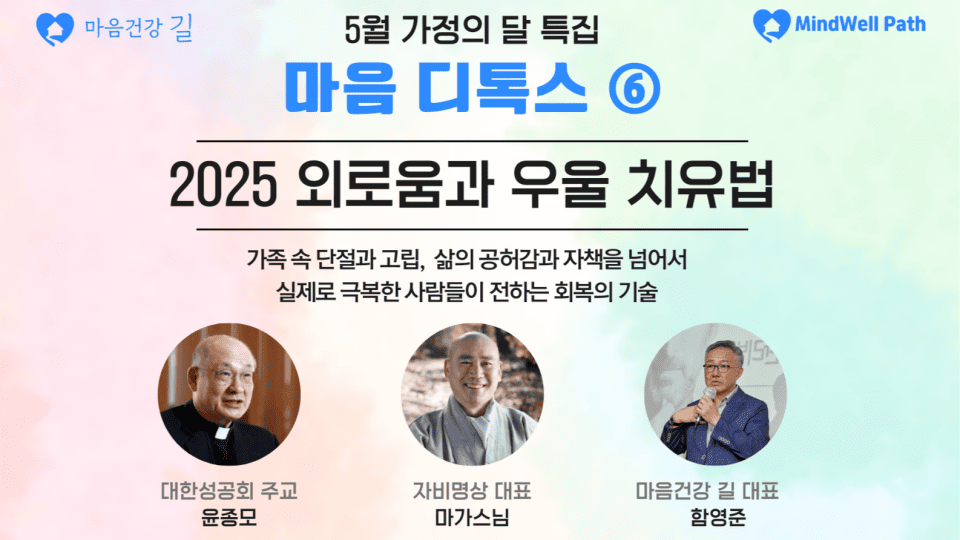
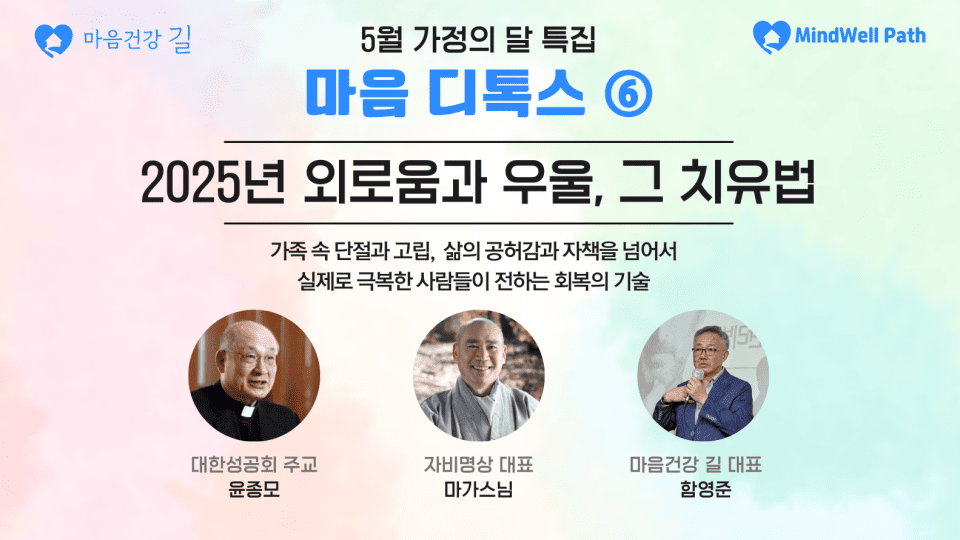
update title poster

diff --git a/conference-v1-dg.html b/conference-v1-dg.html
@@ -30,7 +30,7 @@
     <link rel="icon" href="./img/logo-introduce.png" sizes="192x192"/>
     <link rel="icon" href="./img/logo-introduce.png" type="image/svg+xml"/>
 
-    <title> 가정의 달 특집! 우울증을 부르는 가족 간 외로움과 고독감 극복 컨퍼런스 | 마음건강 길 - 마음디톡스 : 2025 외로움과 우울 치유법</title>
+    <title> 가정의 달 특집! 우울증을 부르는 가족 간 외로움과 고독감 극복 컨퍼런스 | 마음건강 길 - 마음디톡스 : 2025년 외로움과 우울, 그 치유법</title>
 
     <!-- Google Fonts -->
     <link rel="stylesheet" href="css/font.css">
@@ -133,7 +133,7 @@ About Us Section
   <div class="section-header">
     <h3><img src="./img/logo-blue-bold.png" style="max-width:140px;margin-bottom:5px;">이 주최하는<br><br><span style=" font-family: 'GowunBatang-Regular';font-size:20px;color:#3a94f5;"><b>병원 밖 마음 치유공간</b></span><br><span style="font-family: 'HakgyoansimAllimjangTTF-B';color:green;">'마음 디톡스'</span><br><br>
       
-      6번째 컨퍼런스 주제는<br><br>“2025 외로움과 우울 치유법"<br>입니다.<br><br></h3>
+      6번째 컨퍼런스 주제는<br><br>“2025년 외로움과 우울, 그 치유법"<br>입니다.<br><br></h3>
     <!-- <p style="text-align:left" class="textleft">
     예전 방식으로 감량이 안된다는 것은<br>여러분의 체질이 바뀌었다는 걸 의미합니다.<br>감량 방식도 바뀐 체질에 맞게 달라져야 합니다.</p> -->
   </div>

diff --git a/conference-v1-kad.html b/conference-v1-kad.html
@@ -28,7 +28,7 @@
     <link rel="icon" href="./img/logo-introduce.png" sizes="192x192"/>
     <link rel="icon" href="./img/logo-introduce.png" type="image/svg+xml"/>
 
-    <title> 가정의 달 특집! 우울증을 부르는 가족 간 외로움과 고독감 극복 컨퍼런스 | 마음건강 길 - 마음디톡스 : 2025 외로움과 우울 치유법</title>
+    <title> 가정의 달 특집! 우울증을 부르는 가족 간 외로움과 고독감 극복 컨퍼런스 | 마음건강 길 - 마음디톡스 : 2025년 외로움과 우울, 그 치유법</title>
 
     <!-- Google Fonts -->
     <link rel="stylesheet" href="css/font.css">
@@ -129,7 +129,7 @@ About Us Section
   <div class="section-header">
     <h3><img src="./img/logo-blue-bold.png" style="max-width:140px;margin-bottom:5px;">이 주최하는<br><br><span style=" font-family: 'GowunBatang-Regular';font-size:20px;color:#3a94f5;"><b>병원 밖 마음 치유공간</b></span><br><span style="font-family: 'HakgyoansimAllimjangTTF-B';color:green;">'마음 디톡스'</span><br><br>
       
-      6번째 컨퍼런스 주제는<br><br>“2025 외로움과 우울 치유법"<br>입니다.<br><br></h3>
+      6번째 컨퍼런스 주제는<br><br>“2025년 외로움과 우울, 그 치유법"<br>입니다.<br><br></h3>
     <!-- <p style="text-align:left" class="textleft">
     예전 방식으로 감량이 안된다는 것은<br>여러분의 체질이 바뀌었다는 걸 의미합니다.<br>감량 방식도 바뀐 체질에 맞게 달라져야 합니다.</p> -->
   </div>

diff --git a/conference-v1-kakao.html b/conference-v1-kakao.html
@@ -30,7 +30,7 @@
     <link rel="icon" href="./img/logo-introduce.png" sizes="192x192"/>
     <link rel="icon" href="./img/logo-introduce.png" type="image/svg+xml"/>
 
-    <title> 가정의 달 특집! 우울증을 부르는 가족 간 외로움과 고독감 극복 컨퍼런스 | 마음건강 길 - 마음디톡스 : 2025 외로움과 우울 치유법</title>
+    <title> 가정의 달 특집! 우울증을 부르는 가족 간 외로움과 고독감 극복 컨퍼런스 | 마음건강 길 - 마음디톡스 : 2025년 외로움과 우울, 그 치유법</title>
 
     <!-- Google Fonts -->
     <link rel="stylesheet" href="css/font.css">
@@ -131,7 +131,7 @@ About Us Section
   <div class="section-header">
     <h3><img src="./img/logo-blue-bold.png" style="max-width:140px;margin-bottom:5px;">이 주최하는<br><br><span style=" font-family: 'GowunBatang-Regular';font-size:20px;color:#3a94f5;"><b>병원 밖 마음 치유공간</b></span><br><span style="font-family: 'HakgyoansimAllimjangTTF-B';color:green;">'마음 디톡스'</span><br><br>
       
-      6번째 컨퍼런스 주제는<br><br>“2025 외로움과 우울 치유법"<br>입니다.<br><br></h3>
+      6번째 컨퍼런스 주제는<br><br>“2025년 외로움과 우울, 그 치유법"<br>입니다.<br><br></h3>
     <!-- <p style="text-align:left" class="textleft">
     예전 방식으로 감량이 안된다는 것은<br>여러분의 체질이 바뀌었다는 걸 의미합니다.<br>감량 방식도 바뀐 체질에 맞게 달라져야 합니다.</p> -->
   </div>

diff --git a/conference-v1-meta.html b/conference-v1-meta.html
@@ -39,7 +39,7 @@
     <link rel="icon" href="./img/logo-introduce.png" sizes="192x192"/>
     <link rel="icon" href="./img/logo-introduce.png" type="image/svg+xml"/>
 
-    <title> 가정의 달 특집! 우울증을 부르는 가족 간 외로움과 고독감 극복 컨퍼런스 | 마음건강 길 - 마음디톡스 : 2025 외로움과 우울 치유법</title>
+    <title> 가정의 달 특집! 우울증을 부르는 가족 간 외로움과 고독감 극복 컨퍼런스 | 마음건강 길 - 마음디톡스 : 2025년 외로움과 우울, 그 치유법</title>
 
     <!-- Google Fonts -->
     <link rel="stylesheet" href="css/font.css">
@@ -142,7 +142,7 @@ About Us Section
   <div class="section-header">
     <h3><img src="./img/logo-blue-bold.png" style="max-width:140px;margin-bottom:5px;">이 주최하는<br><br><span style=" font-family: 'GowunBatang-Regular';font-size:20px;color:#3a94f5;"><b>병원 밖 마음 치유공간</b></span><br><span style="font-family: 'HakgyoansimAllimjangTTF-B';color:green;">'마음 디톡스'</span><br><br>
       
-      6번째 컨퍼런스 주제는<br><br>“2025 외로움과 우울 치유법"<br>입니다.<br><br></h3>
+      6번째 컨퍼런스 주제는<br><br>“2025년 외로움과 우울, 그 치유법"<br>입니다.<br><br></h3>
     <!-- <p style="text-align:left" class="textleft">
     예전 방식으로 감량이 안된다는 것은<br>여러분의 체질이 바뀌었다는 걸 의미합니다.<br>감량 방식도 바뀐 체질에 맞게 달라져야 합니다.</p> -->
   </div>

diff --git a/conference-v1-popup.html b/conference-v1-popup.html
@@ -30,7 +30,7 @@
     <link rel="icon" href="./img/logo-introduce.png" sizes="192x192"/>
     <link rel="icon" href="./img/logo-introduce.png" type="image/svg+xml"/>
 
-    <title> 가정의 달 특집! 우울증을 부르는 가족 간 외로움과 고독감 극복 컨퍼런스 | 마음건강 길 - 마음디톡스 : 2025 외로움과 우울 치유법</title>
+    <title> 가정의 달 특집! 우울증을 부르는 가족 간 외로움과 고독감 극복 컨퍼런스 | 마음건강 길 - 마음디톡스 : 2025년 외로움과 우울, 그 치유법</title>
 
     <!-- Google Fonts -->
     <link rel="stylesheet" href="css/font.css">
@@ -133,7 +133,7 @@ About Us Section
   <div class="section-header">
     <h3><img src="./img/logo-blue-bold.png" style="max-width:140px;margin-bottom:5px;">이 주최하는<br><br><span style=" font-family: 'GowunBatang-Regular';font-size:20px;color:#3a94f5;"><b>병원 밖 마음 치유공간</b></span><br><span style="font-family: 'HakgyoansimAllimjangTTF-B';color:green;">'마음 디톡스'</span><br><br>
       
-      6번째 컨퍼런스 주제는<br><br>“2025 외로움과 우울 치유법"<br>입니다.<br><br></h3>
+      6번째 컨퍼런스 주제는<br><br>“2025년 외로움과 우울, 그 치유법"<br>입니다.<br><br></h3>
     <!-- <p style="text-align:left" class="textleft">
     예전 방식으로 감량이 안된다는 것은<br>여러분의 체질이 바뀌었다는 걸 의미합니다.<br>감량 방식도 바뀐 체질에 맞게 달라져야 합니다.</p> -->
   </div>

diff --git a/conference-v1-text.html b/conference-v1-text.html
@@ -30,7 +30,7 @@
     <link rel="icon" href="./img/logo-introduce.png" sizes="192x192"/>
     <link rel="icon" href="./img/logo-introduce.png" type="image/svg+xml"/>
 
-    <title> 가정의 달 특집! 우울증을 부르는 가족 간 외로움과 고독감 극복 컨퍼런스 | 마음건강 길 - 마음디톡스 : 2025 외로움과 우울 치유법</title>
+    <title> 가정의 달 특집! 우울증을 부르는 가족 간 외로움과 고독감 극복 컨퍼런스 | 마음건강 길 - 마음디톡스 : 2025년 외로움과 우울, 그 치유법</title>
 
     <!-- Google Fonts -->
     <link rel="stylesheet" href="css/font.css">
@@ -131,7 +131,7 @@ About Us Section
   <div class="section-header">
     <h3><img src="./img/logo-blue-bold.png" style="max-width:140px;margin-bottom:5px;">이 주최하는<br><br><span style=" font-family: 'GowunBatang-Regular';font-size:20px;color:#3a94f5;"><b>병원 밖 마음 치유공간</b></span><br><span style="font-family: 'HakgyoansimAllimjangTTF-B';color:green;">'마음 디톡스'</span><br><br>
       
-      6번째 컨퍼런스 주제는<br><br>“2025 외로움과 우울 치유법"<br>입니다.<br><br></h3>
+      6번째 컨퍼런스 주제는<br><br>“2025년 외로움과 우울, 그 치유법"<br>입니다.<br><br></h3>
     <!-- <p style="text-align:left" class="textleft">
     예전 방식으로 감량이 안된다는 것은<br>여러분의 체질이 바뀌었다는 걸 의미합니다.<br>감량 방식도 바뀐 체질에 맞게 달라져야 합니다.</p> -->
   </div>

diff --git a/conference-v1.html b/conference-v1.html
@@ -30,7 +30,7 @@
     <link rel="icon" href="./img/logo-introduce.png" sizes="192x192"/>
     <link rel="icon" href="./img/logo-introduce.png" type="image/svg+xml"/>
 
-    <title> 가정의 달 특집! 우울증을 부르는 가족 간 외로움과 고독감 극복 컨퍼런스 | 마음건강 길 - 마음디톡스 : 2025 외로움과 우울 치유법</title>
+    <title> 가정의 달 특집! 우울증을 부르는 가족 간 외로움과 고독감 극복 컨퍼런스 | 마음건강 길 - 마음디톡스 : 2025년 외로움과 우울, 그 치유법</title>
 
     <!-- Google Fonts -->
     <link rel="stylesheet" href="css/font.css">
@@ -131,7 +131,7 @@ About Us Section
   <div class="section-header">
     <h3><img src="./img/logo-blue-bold.png" style="max-width:140px;margin-bottom:5px;">이 주최하는<br><br><span style=" font-family: 'GowunBatang-Regular';font-size:20px;color:#3a94f5;"><b>병원 밖 마음 치유공간</b></span><br><span style="font-family: 'HakgyoansimAllimjangTTF-B';color:green;">'마음 디톡스'</span><br><br>
       
-      6번째 컨퍼런스 주제는<br><br>“2025 외로움과 우울 치유법"<br>입니다.<br><br></h3>
+      6번째 컨퍼런스 주제는<br><br>“2025년 외로움과 우울, 그 치유법"<br>입니다.<br><br></h3>
     <!-- <p style="text-align:left" class="textleft">
     예전 방식으로 감량이 안된다는 것은<br>여러분의 체질이 바뀌었다는 걸 의미합니다.<br>감량 방식도 바뀐 체질에 맞게 달라져야 합니다.</p> -->
   </div>

diff --git a/index.html b/index.html
@@ -30,7 +30,7 @@
     <link rel="icon" href="./img/logo-introduce.png" sizes="192x192"/>
     <link rel="icon" href="./img/logo-introduce.png" type="image/svg+xml"/>
 
-    <title> 가정의 달 특집! 우울증을 부르는 가족 간 외로움과 고독감 극복 컨퍼런스 | 마음건강 길 - 마음디톡스 : 2025 외로움과 우울 치유법</title>
+    <title> 가정의 달 특집! 우울증을 부르는 가족 간 외로움과 고독감 극복 컨퍼런스 | 마음건강 길 - 마음디톡스 : 2025년 외로움과 우울, 그 치유법</title>
 
     <!-- Google Fonts -->
     <link rel="stylesheet" href="css/font.css">
@@ -131,7 +131,7 @@ About Us Section
   <div class="section-header">
     <h3><img src="./img/logo-blue-bold.png" style="max-width:140px;margin-bottom:5px;">이 주최하는<br><br><span style=" font-family: 'GowunBatang-Regular';font-size:20px;color:#3a94f5;"><b>병원 밖 마음 치유공간</b></span><br><span style="font-family: 'HakgyoansimAllimjangTTF-B';color:green;">'마음 디톡스'</span><br><br>
       
-      6번째 컨퍼런스 주제는<br><br>“2025 외로움과 우울 치유법"<br>입니다.<br><br></h3>
+      6번째 컨퍼런스 주제는<br><br>“2025년 외로움과 우울, 그 치유법"<br>입니다.<br><br></h3>
     <!-- <p style="text-align:left" class="textleft">
     예전 방식으로 감량이 안된다는 것은<br>여러분의 체질이 바뀌었다는 걸 의미합니다.<br>감량 방식도 바뀐 체질에 맞게 달라져야 합니다.</p> -->
   </div>

diff --git a/conference-v2-cnp.html b/conference-v2-cnp.html
@@ -30,7 +30,7 @@
     <link rel="icon" href="./img/logo-introduce.png" sizes="192x192"/>
     <link rel="icon" href="./img/logo-introduce.png" type="image/svg+xml"/>
 
-    <title> 가정의 달 특집! 우울증을 부르는 가족 간 외로움과 고독감 극복 컨퍼런스 | 마음건강 길 - 마음디톡스 : 2025 외로움과 우울 치유법</title>
+    <title> 가정의 달 특집! 우울증을 부르는 가족 간 외로움과 고독감 극복 컨퍼런스 | 마음건강 길 - 마음디톡스 : 2025년 외로움과 우울, 그 치유법</title>
 
     <!-- Google Fonts -->
     <link rel="stylesheet" href="css/font.css">
@@ -128,7 +128,7 @@
           특별한 시간을 준비했습니다.<br><br><img src="./img/logo-white-bold.png" style="max-width:140px;"><br>5월 가정의 달 특집<br>6번째 <b>마음디톡스</b> 주제<br><br>
           <div style="text-align:-webkit-center">
           <hr style="border:1px solid #fff;max-width:200px;"></div>
-          2025 외로움과 우울 치유법 
+          2025년 외로움과 우울, 그 치유법 
           <div style="text-align:-webkit-center">
             <hr style="border:1px solid #fff;max-width:200px;"></div>
           <br>

diff --git a/conference-v2-dg.html b/conference-v2-dg.html
@@ -30,7 +30,7 @@
     <link rel="icon" href="./img/logo-introduce.png" sizes="192x192"/>
     <link rel="icon" href="./img/logo-introduce.png" type="image/svg+xml"/>
 
-    <title> 가정의 달 특집! 우울증을 부르는 가족 간 외로움과 고독감 극복 컨퍼런스 | 마음건강 길 - 마음디톡스 : 2025 외로움과 우울 치유법</title>
+    <title> 가정의 달 특집! 우울증을 부르는 가족 간 외로움과 고독감 극복 컨퍼런스 | 마음건강 길 - 마음디톡스 : 2025년 외로움과 우울, 그 치유법</title>
 
     <!-- Google Fonts -->
     <link rel="stylesheet" href="css/font.css">
@@ -128,7 +128,7 @@
           특별한 시간을 준비했습니다.<br><br><img src="./img/logo-white-bold.png" style="max-width:140px;"><br>5월 가정의 달 특집<br>6번째 <b>마음디톡스</b> 주제<br><br>
           <div style="text-align:-webkit-center">
           <hr style="border:1px solid #fff;max-width:200px;"></div>
-          2025 외로움과 우울 치유법 
+          2025년 외로움과 우울, 그 치유법
           <div style="text-align:-webkit-center">
             <hr style="border:1px solid #fff;max-width:200px;"></div>
           <br>

diff --git a/conference-v2-kad.html b/conference-v2-kad.html
@@ -28,7 +28,7 @@
     <link rel="icon" href="./img/logo-introduce.png" sizes="192x192"/>
     <link rel="icon" href="./img/logo-introduce.png" type="image/svg+xml"/>
 
-    <title> 가정의 달 특집! 우울증을 부르는 가족 간 외로움과 고독감 극복 컨퍼런스 | 마음건강 길 - 마음디톡스 : 2025 외로움과 우울 치유법</title>
+    <title> 가정의 달 특집! 우울증을 부르는 가족 간 외로움과 고독감 극복 컨퍼런스 | 마음건강 길 - 마음디톡스 : 2025년 외로움과 우울, 그 치유법</title>
 
     <!-- Google Fonts -->
     <link rel="stylesheet" href="css/font.css">
@@ -127,7 +127,7 @@
           특별한 시간을 준비했습니다.<br><br><img src="./img/logo-white-bold.png" style="max-width:140px;"><br>5월 가정의 달 특집<br>6번째 <b>마음디톡스</b> 주제<br><br>
           <div style="text-align:-webkit-center">
           <hr style="border:1px solid #fff;max-width:200px;"></div>
-          2025 외로움과 우울 치유법
+          2025년 외로움과 우울, 그 치유법
           <div style="text-align:-webkit-center">
             <hr style="border:1px solid #fff;max-width:200px;"></div>
           <br>

diff --git a/conference-v2-kakao.html b/conference-v2-kakao.html
@@ -28,7 +28,7 @@
     <link rel="icon" href="./img/logo-introduce.png" sizes="192x192"/>
     <link rel="icon" href="./img/logo-introduce.png" type="image/svg+xml"/>
 
-    <title> 가정의 달 특집! 우울증을 부르는 가족 간 외로움과 고독감 극복 컨퍼런스 | 마음건강 길 - 마음디톡스 : 2025 외로움과 우울 치유법</title>
+    <title> 가정의 달 특집! 우울증을 부르는 가족 간 외로움과 고독감 극복 컨퍼런스 | 마음건강 길 - 마음디톡스 : 2025년 외로움과 우울, 그 치유법</title>
 
     <!-- Google Fonts -->
     <link rel="stylesheet" href="css/font.css">
@@ -127,7 +127,7 @@
           특별한 시간을 준비했습니다.<br><br><img src="./img/logo-white-bold.png" style="max-width:140px;"><br>5월 가정의 달 특집<br>6번째 <b>마음디톡스</b> 주제<br><br>
           <div style="text-align:-webkit-center">
           <hr style="border:1px solid #fff;max-width:200px;"></div>
-          2025 외로움과 우울 치유법
+          2025년 외로움과 우울, 그 치유법
           <div style="text-align:-webkit-center">
             <hr style="border:1px solid #fff;max-width:200px;"></div>
           <br>
